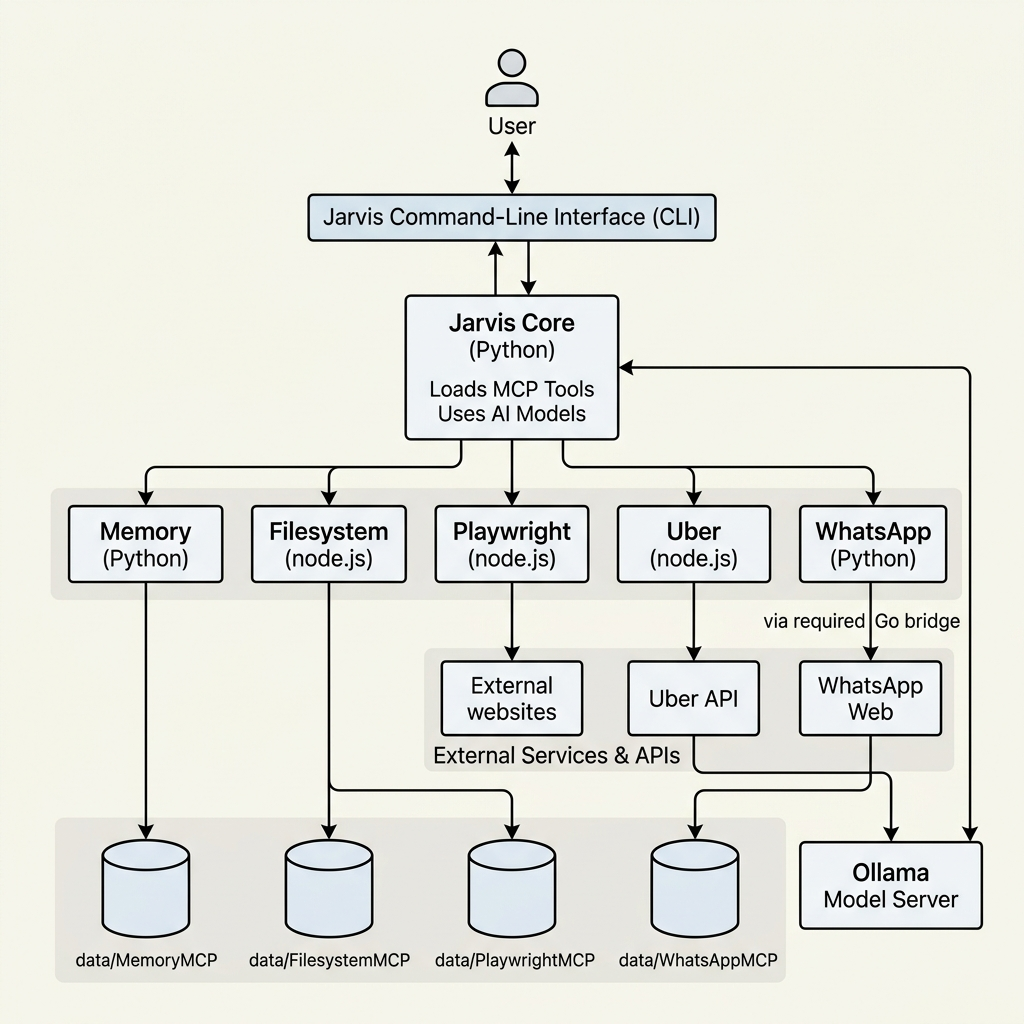
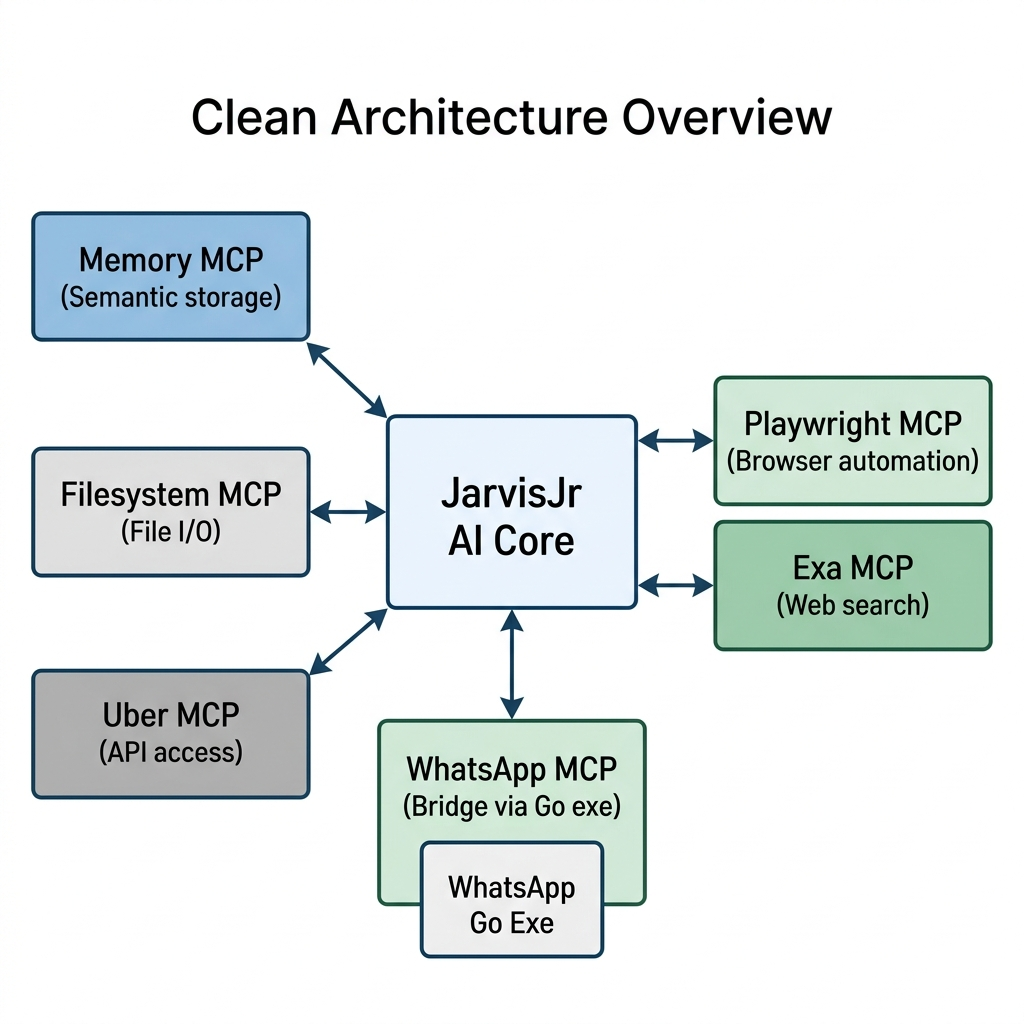
docs: update architecture overview image with Exa node, add GitHub repo link to credits, and update README

diff --git a/config/settings.py b/config/settings.py
@@ -60,6 +60,14 @@ MCP_SERVERS = {
             **os.environ,
         },
     },
+    "exa": {
+        "command": "npx.cmd",
+        "args": ["-y", "exa-mcp-server"],
+        "env": {
+            **os.environ,
+            "EXA_API_KEY": os.environ.get("EXA_API_KEY", ""),
+        },
+    },
     "whatsapp": {
         # verygoodplugins/whatsapp-mcp — stdio Python MCP server.
         # Requires whatsapp-bridge Go process running separately.
@@ -129,6 +137,18 @@ WhatsApp MCP Rules:
 - Never invent WhatsApp messages or contact details. Report exactly what the tool returns.
 - If a tool fails (e.g., because the Go bridge is offline or unauthenticated), report the exact error message to the user.
 - Do NOT delete, archive, or modify WhatsApp data unless explicitly instructed and supported by the tool.
+
+Exa MCP Rules:
+- Exa is the dedicated web-search and web-research tool.
+- Use Exa when the user asks to search the web, requests current or recent information, wants to discover webpages, articles, sources, products or companies, or when answering the question requires external web information not available through another specialist MCP.
+- Prefer Exa for INFORMATION RETRIEVAL from the web.
+- Use the minimum number of Exa searches required to answer the request accurately. Do not call Exa repeatedly or in a loop.
+- Do NOT use Exa merely because a website exists. Only use it when you need to retrieve information from the web.
+- Do NOT use Exa for Uber-related queries — use the Uber MCP instead.
+- Do NOT use Exa for WhatsApp queries — use the WhatsApp MCP instead.
+- Use Playwright instead of Exa when the user needs actual browser interaction: opening a website, clicking buttons, filling forms, navigating pages, or any task that requires browser state or UI interaction.
+- Do not use Playwright as a fallback for general web research when Exa can answer the question directly.
+- Report Exa results accurately. Do not fabricate search results.
 
 General rules:
 - For general knowledge questions answer directly without tools.

diff --git a/README.md b/README.md
@@ -27,6 +27,7 @@ A Model Context Protocol (MCP) server for WhatsApp, enabling Claude to read and 
 - **Call History**: Capture incoming voice/video calls into a local SQLite table (live, 1:1 and group)
 - **Webhook Integration**: Forward incoming messages to external services
 - **Local Storage**: All messages stored locally in SQLite - only sent to Claude when you allow it
+- **Web Search (Exa)**: Perform fast, up‑to‑date web searches and fetch page content via the Exa MCP server.
 
 ## Installation
 
@@ -845,7 +846,9 @@ MIT License - see [LICENSE](LICENSE) for details.
 
 ## Credits & History
 
-This project is a maintained fork of [lharries/whatsapp-mcp](https://github.com/lharries/whatsapp-mcp), originally created by [Luke Harries](https://github.com/lharries).
+This project is maintained in the [Smartchronon24/JarvisJrMCP](https://github.com/Smartchronon24/JarvisJrMCP) repository.
+
+It is a maintained fork of [lharries/whatsapp-mcp](https://github.com/lharries/whatsapp-mcp), originally created by [Luke Harries](https://github.com/lharries).
 
 **Why we forked:** The original repository hasn't been updated since April 2025. We needed continued maintenance, bug fixes, and new features for production use.
 
